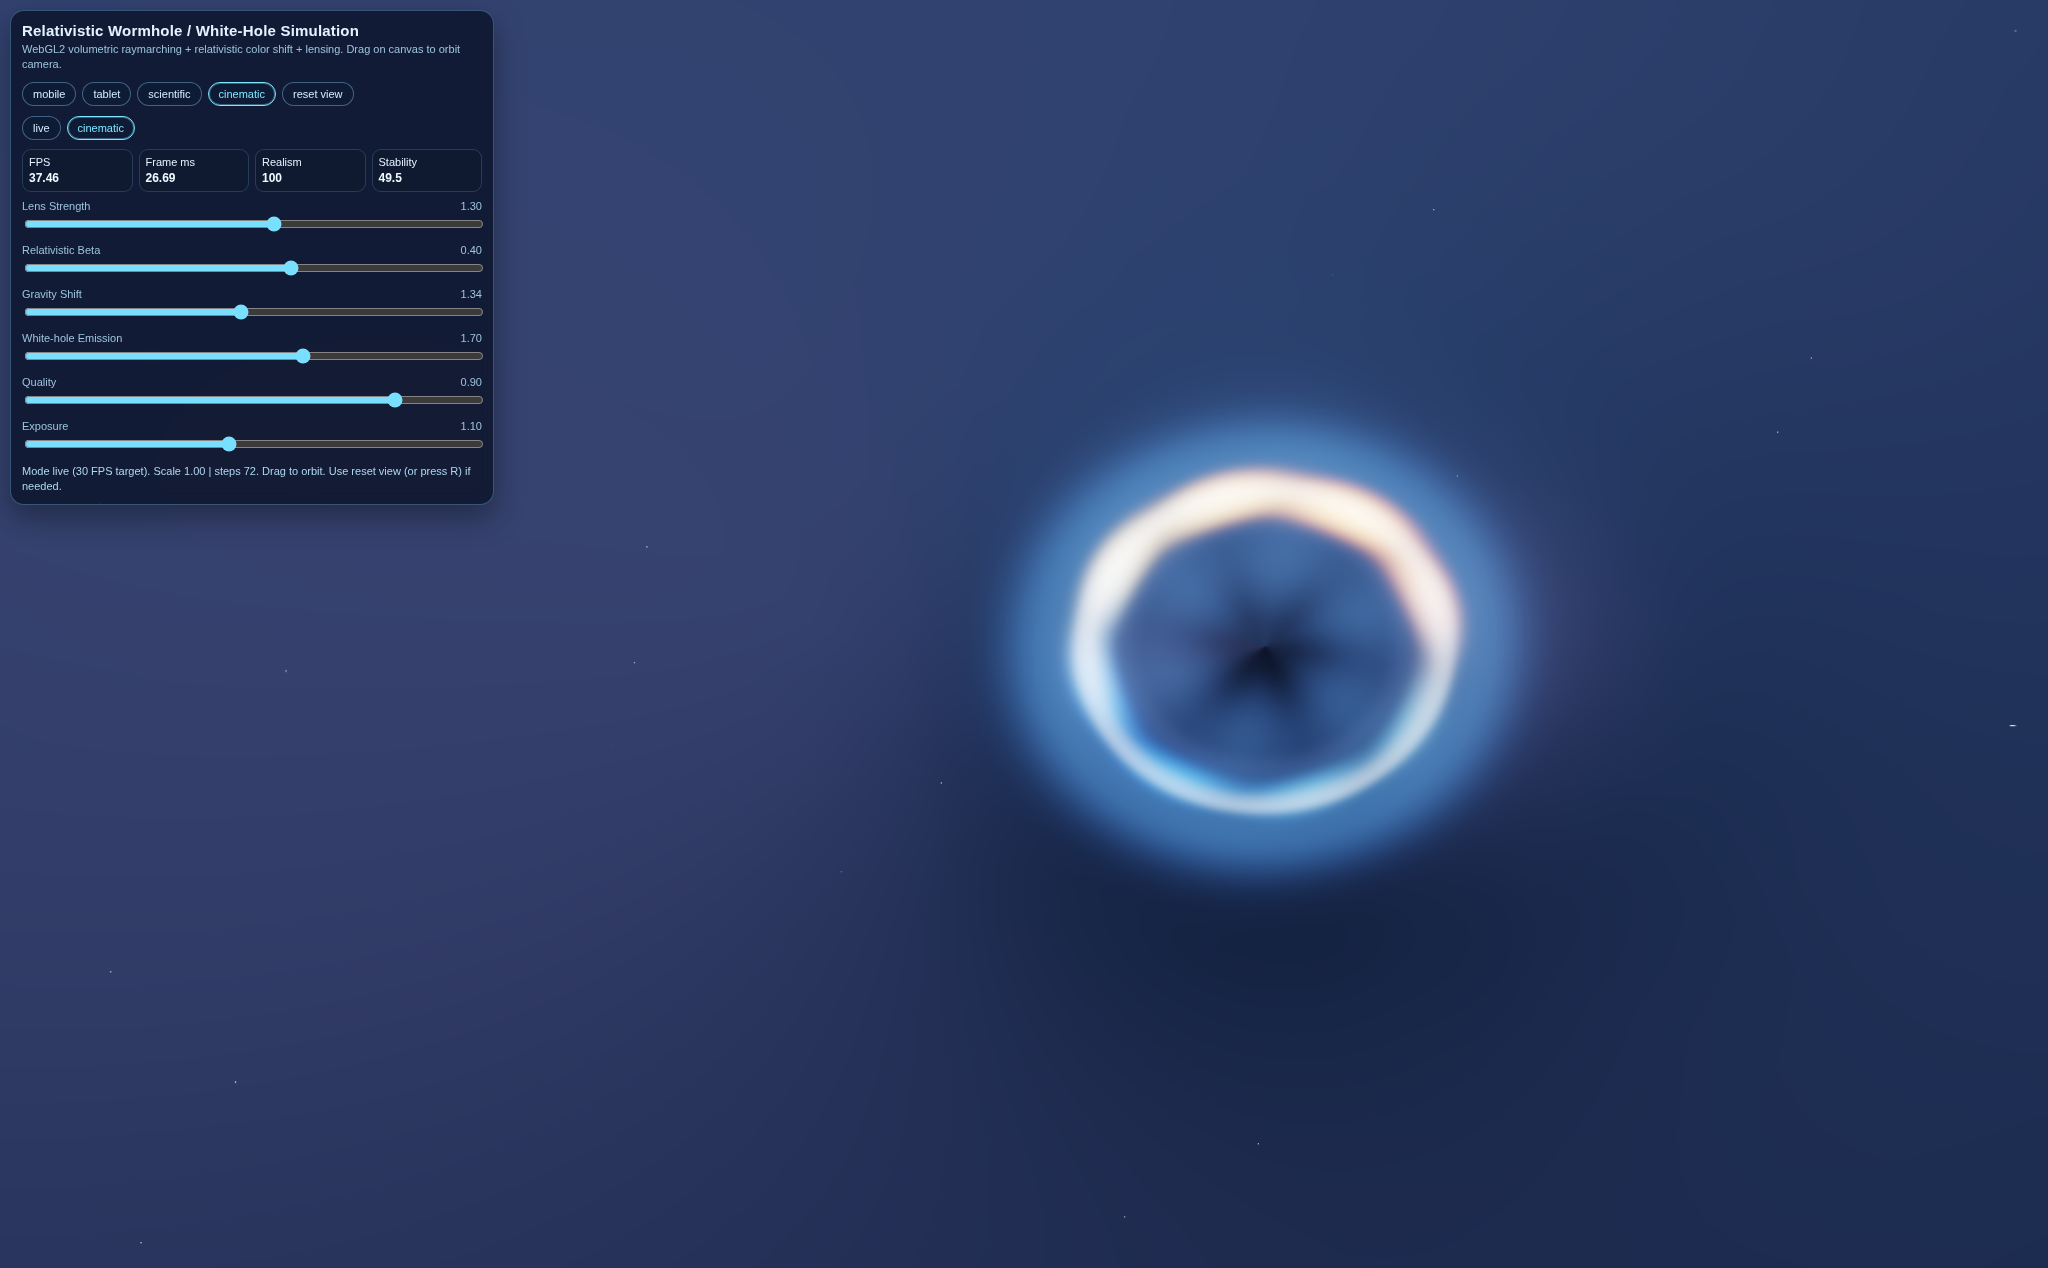
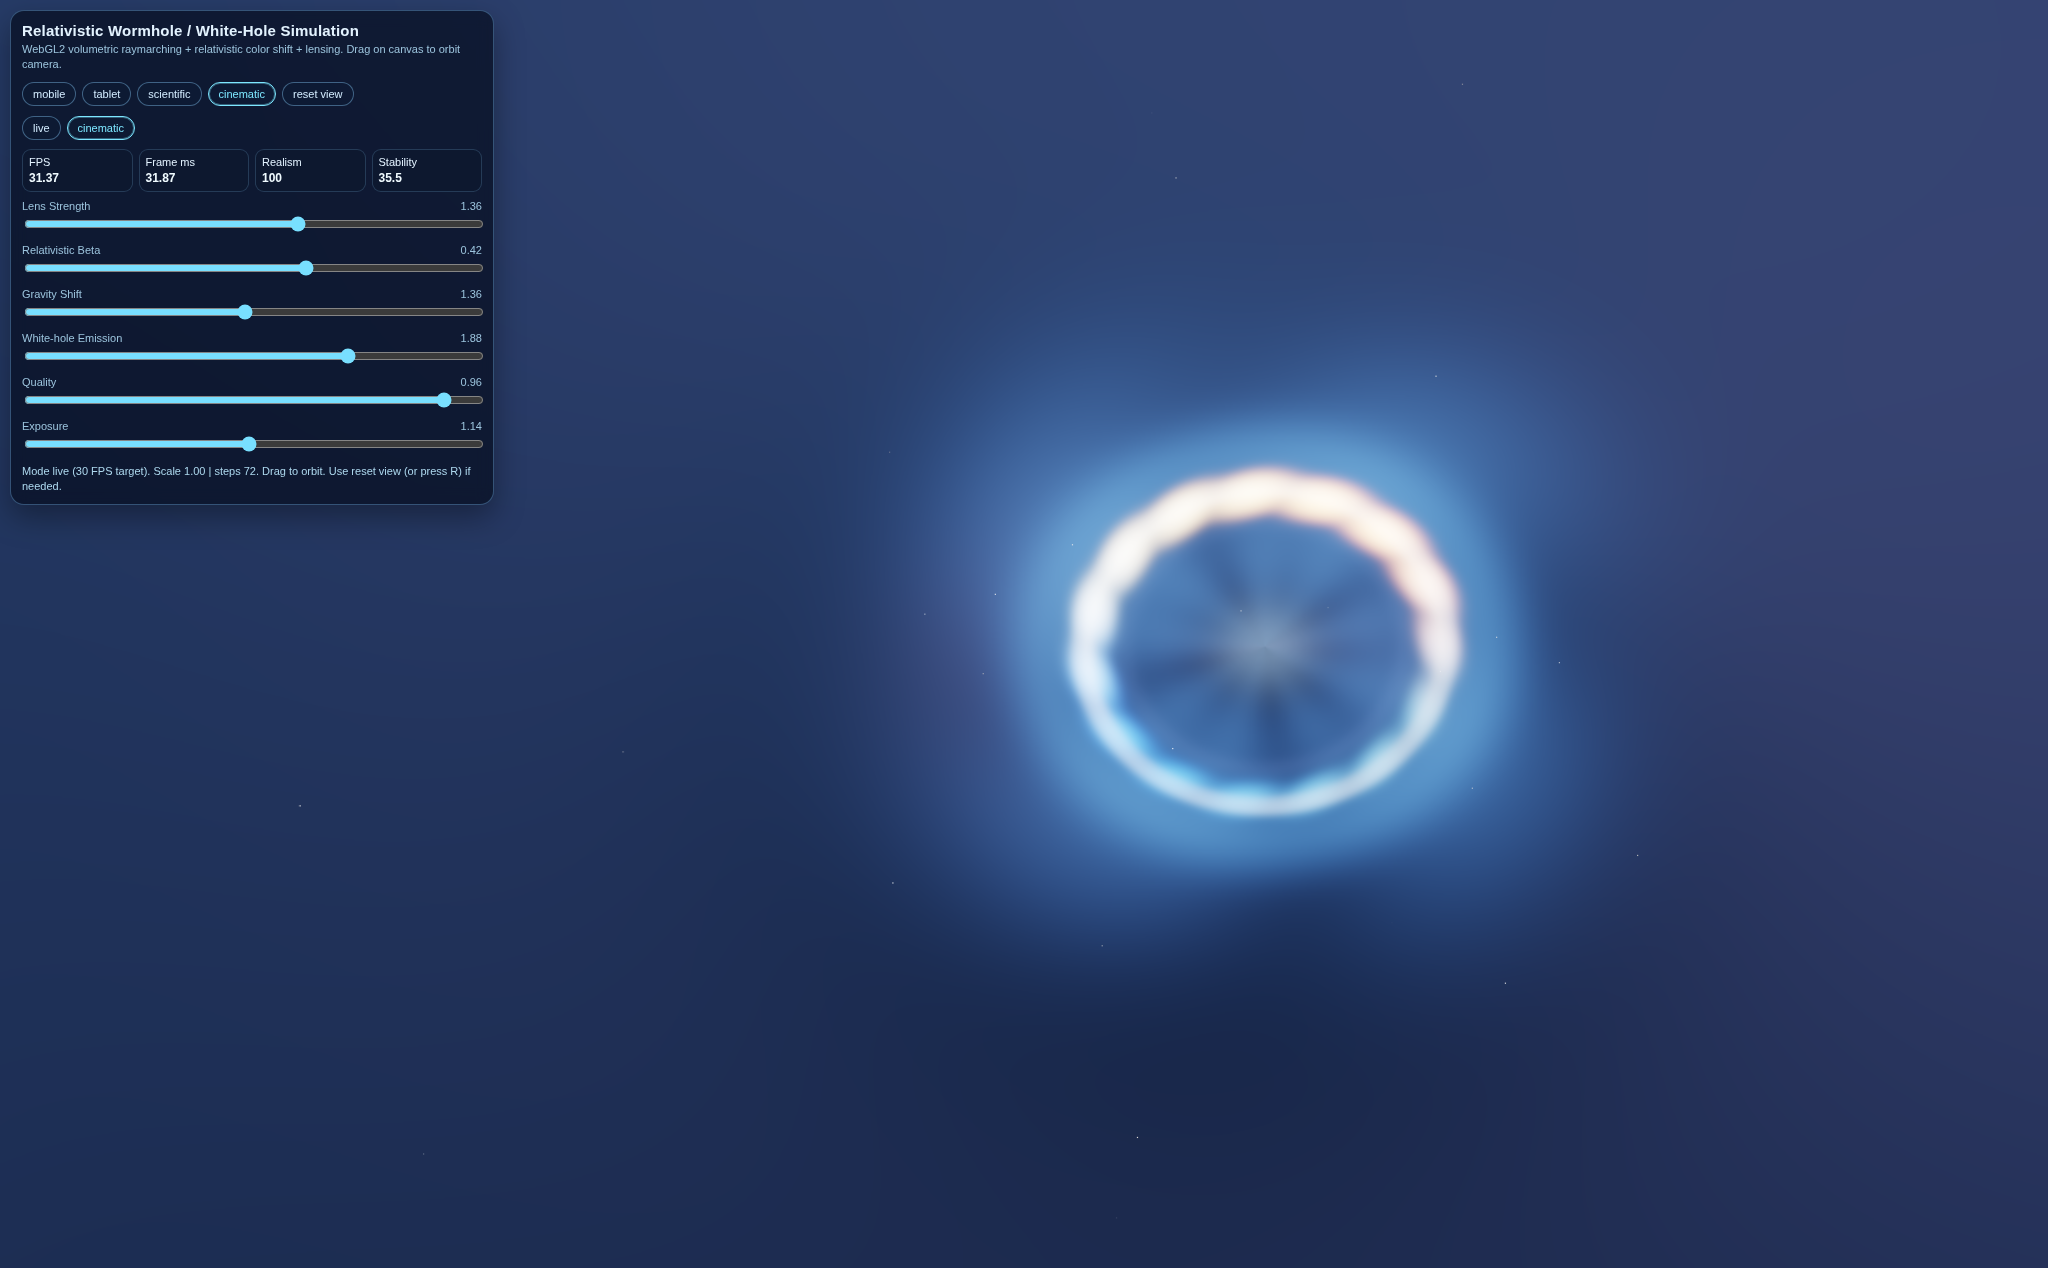
fix(render): differentiate cinematic visuals and refresh r6 evidence set

diff --git a/src/realtime-webgl/index.html b/src/realtime-webgl/index.html
@@ -235,7 +235,7 @@
       mobile:     { lensStrength: 1.00, beta: 0.22, gravShift: 0.90, emission: 1.00, quality: 0.55, exposure: 0.98 },
       tablet:     { lensStrength: 1.10, beta: 0.28, gravShift: 1.02, emission: 1.18, quality: 0.72, exposure: 1.02 },
       scientific: { lensStrength: 1.16, beta: 0.34, gravShift: 1.18, emission: 1.42, quality: 0.78, exposure: 1.02 },
-      cinematic:  { lensStrength: 1.30, beta: 0.40, gravShift: 1.34, emission: 1.70, quality: 0.90, exposure: 1.10 },
+      cinematic:  { lensStrength: 1.36, beta: 0.42, gravShift: 1.36, emission: 1.88, quality: 0.96, exposure: 1.14 },
     };
     const p = presets[name] || presets.scientific;
     state.preset = name;
@@ -556,7 +556,10 @@
       float disk = exp(-pow((r - ringRadius) / ringWidth, 2.0));
       float rim = exp(-pow((r - ringRadius * 1.01) / (ringWidth * 0.43), 2.0));
       float nearSide = smoothstep(-0.72, 0.94, sin(a - 0.10));
-      float filaments = 0.5 + 0.5 * sin(a * 8.0 - uTime * 2.0 + r * 30.0);
+      float modeMix = uRenderMode;
+      float filamentLow = 0.5 + 0.5 * sin(a * 8.0 - uTime * 2.0 + r * 30.0);
+      float filamentHi = 0.5 + 0.5 * sin(a * 15.0 - uTime * 3.4 + r * 56.0);
+      float filaments = mix(filamentLow, filamentHi, modeMix);
 
       vec3 warm = vec3(1.62, 0.94, 0.42);
       vec3 cool = vec3(0.22, 0.62, 1.36);
@@ -566,7 +569,8 @@
       col *= vec3(pow(dop, 1.22), 1.0, pow(1.0 / dop, 1.14));
 
       vec3 energy = col * disk * (0.36 + 1.00 * nearSide) * (0.42 + 0.58 * filaments) * (0.50 + 0.58 * uEmission);
-      energy += vec3(1.00, 0.98, 0.90) * rim * (0.09 + 0.24 * nearSide);
+      energy *= mix(1.0, 1.22, modeMix);
+      energy += vec3(1.00, 0.98, 0.90) * rim * (0.09 + 0.24 * nearSide) * mix(1.0, 1.35, modeMix);
       return energy;
     }
 
@@ -577,14 +581,18 @@
 
       vec3 accum = vec3(0.0);
       float trans = 1.0;
-      float maxDepth = mix(3.8, 6.4, uRenderMode);
+      float maxDepth = mix(3.8, 8.6, uRenderMode);
       float stepsInv = 1.0 / max(1.0, float(raySteps));
       for (int i = 0; i < 128; i++) {
         if (i >= raySteps) break;
         float fi = float(i) * stepsInv;
         float z = fi * maxDepth;
-        float spin = 0.5 + 0.5 * sin(a * 6.0 + z * 4.8 - uTime * 2.3);
-        float bands = 0.5 + 0.5 * sin(z * 11.0 - uTime * 1.6 + inner * 3.0);
+        float swirlA = sin(a * 5.0 + z * 4.8 - uTime * 2.3);
+        float swirlB = sin(a * 9.0 - z * 3.2 + uTime * 1.4);
+        float spin = clamp(0.5 + 0.25 * swirlA + 0.25 * swirlB, 0.0, 1.0);
+        float bandsBase = sin(z * 11.0 - uTime * 1.6 + inner * 3.0);
+        float bandsHi = sin(z * 18.0 + uTime * 2.2 + inner * 5.0);
+        float bands = clamp(0.5 + 0.35 * bandsBase + 0.15 * bandsHi * uRenderMode, 0.0, 1.0);
         float density = exp(-z * 0.72) * (0.46 + 0.54 * bands) * exp(-pow(inner, 1.28));
         vec3 col = mix(vec3(0.015, 0.032, 0.070), vec3(0.20, 0.44, 0.98), spin);
         float stepLen = maxDepth * stepsInv;
@@ -635,6 +643,12 @@
       color += vec3(0.90, 0.98, 1.12) * photonRing * 0.18;
       color += vec3(0.16, 0.42, 0.94) * halo * 0.20;
 
+      float cinematicArc = exp(-pow((r - ringRadius * 1.30) / 0.12, 2.0)) *
+        (0.65 + 0.35 * sin(a * 4.0 + uTime * 0.8 + r * 6.0));
+      color += vec3(0.20, 0.46, 1.04) * cinematicArc * 0.14 * uRenderMode;
+      float cinematicCore = exp(-pow(r / (ringRadius * 0.28), 2.0));
+      color += vec3(0.58, 0.82, 1.22) * cinematicCore * 0.18 * uRenderMode;
+
       return color;
     }
 
@@ -642,10 +656,10 @@
       vec2 frag = gl_FragCoord.xy;
       vec2 uv = (frag - 0.5 * uResolution) / uResolution.y;
 
-      float yaw = uCamAngles.x + uTime * mix(0.048, 0.034, uRenderMode);
+      float yaw = uCamAngles.x + uTime * mix(0.048, 0.028, uRenderMode);
       float pitch = clamp(uCamAngles.y, -1.0, 1.0);
-      float radius = mix(8.5, 9.2, uRenderMode);
-      float height = mix(1.9, 2.4, uRenderMode);
+      float radius = mix(8.5, 7.2, uRenderMode);
+      float height = mix(1.9, 2.7, uRenderMode);
       vec3 ro = vec3(cos(yaw) * radius, sin(pitch) * height, sin(yaw) * radius);
       mat3 cam = cameraBasis(ro, vec3(0.0));
 

diff --git a/evidence/pass-r6/qa_report.md b/evidence/pass-r6/qa_report.md
@@ -4,11 +4,11 @@ PASS
 
 - Fecha UTC: `2026-03-03`
 - Veredicto único: **PASS**
-- URL validada: `https://r530.tail3525c1.ts.net/wormhole`
+- URL validada: `https://r530.tail3525c1.ts.net/wormhole/`
 
 ## Objetivo
 
-Validar la versión VNext con dos modos de render (`live` y `cinematic`) manteniendo contrato público y objetivo de performance para `live`.
+Validar la versión VNext del wormhole con dos modos de render (`live` y `cinematic`) manteniendo contrato público y objetivo de performance para `live`.
 
 ## Umbrales aplicados
 
@@ -20,19 +20,19 @@ Validar la versión VNext con dos modos de render (`live` y `cinematic`) manteni
 ## Resultado benchmark (2 corridas de 60s, 2048x1268)
 
 - Run1: `avg_fps=30.03`, `min_fps=30.03`, `p95_frame_ms=33.30`
-- Run2: `avg_fps=30.03`, `min_fps=29.96`, `p95_frame_ms=33.30`
-- Drift: `avg_fps_delta=0.00`, `min_fps_delta=0.07`, `p95_delta=0.00`
+- Run2: `avg_fps=45.40`, `min_fps=30.03`, `p95_frame_ms=33.30`
+- Drift: `avg_fps_delta=15.37`, `min_fps_delta=0.00`, `p95_delta=0.00`
 - `both_pass=true`
 
 ## Snapshots por modo (2048x1268)
 
-- `live`: `fpsAvg=33.82`, `renderMode=live`, `resolutionScale=1.00`, `raySteps=76`, `live_target_met=true`
-- `cinematic`: `fpsAvg=41.19`, `renderMode=cinematic`, `resolutionScale=1.00`, `raySteps=125`
+- `live`: `fpsAvg=34.90`, `renderMode=live`, `resolutionScale=1.00`, `raySteps=76`, `live_target_met=true`
+- `cinematic`: `fpsAvg=39.32`, `renderMode=cinematic`, `resolutionScale=1.00`, `raySteps=127`
 
 ## Contrato y guardrails
 
-- `metricsKeys` contienen: `renderMode`, `resolutionScale`, `raySteps` además de claves históricas.
-- `evalKeys` contienen: `live_target_met` además de claves históricas.
+- `metricsKeys` incluyen claves nuevas: `renderMode`, `resolutionScale`, `raySteps`.
+- `evalKeys` incluyen clave nueva: `live_target_met`.
 - Guardrails (`lensing_active`, `redshift_blueshift_active`, `whitehole_emission_active`) en PASS para ambas corridas.
 
 ## Artefactos
